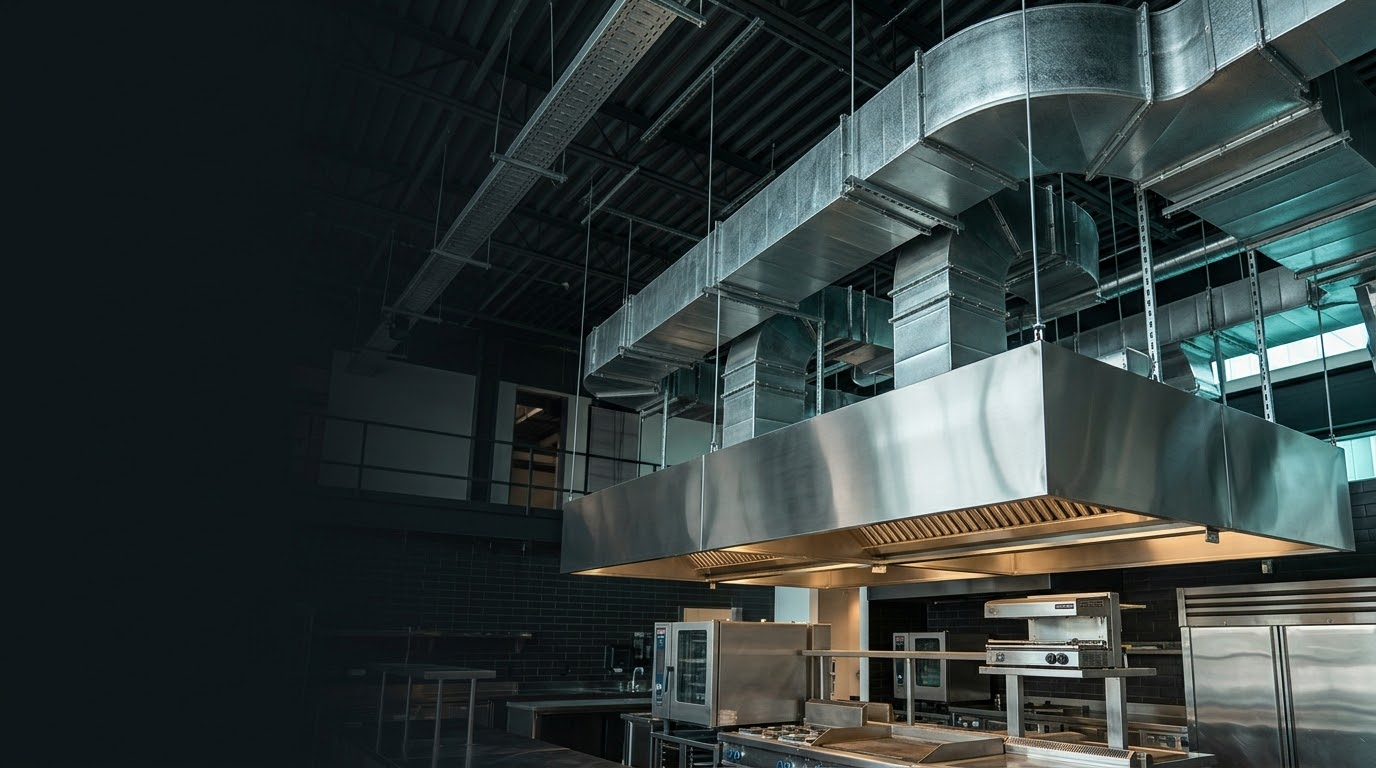
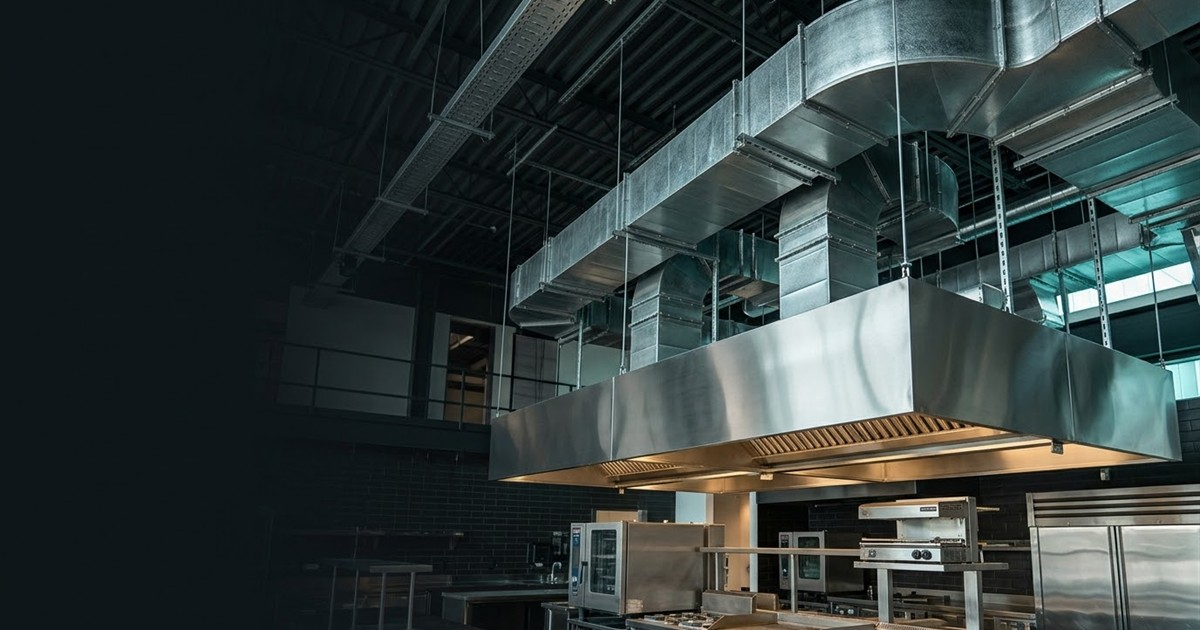
fix(seo): optimasi og:image dan lengkapi meta tag preview whatsapp / social share

diff --git a/index.html b/index.html
@@ -22,11 +22,18 @@
   <meta property="og:locale" content="id_ID">
   <meta property="og:site_name" content="Ducting Kitchen">
   <meta property="og:title" content="Jasa Ducting Kitchen &amp; Kitchen Exhaust System Komersial">
-  <meta property="og:description"
-    content="Spesialis pembuatan dan instalasi ducting exhaust dapur, kitchen hood stainless steel, blower, dan sistem sirkulasi udara dapur komersial.">
-  <meta property="og:url" content="https://ductingkitchen.id/">
-  <meta property="og:image" content="https://ductingkitchen.id/assets/img/og/ducting-kitchen-og.jpg">
+  <meta property="og:description" content="Spesialis pembuatan dan instalasi ducting exhaust dapur, kitchen hood stainless steel, blower, dan sistem sirkulasi udara dapur komersial.">
+  <meta property="og:url" content="https://ductingkitchenid-2iba.vercel.app/">
+  <meta property="og:image" content="https://ductingkitchenid-2iba.vercel.app/assets/img/og/ducting-kitchen-og.jpg">
+  <meta property="og:image:secure_url" content="https://ductingkitchenid-2iba.vercel.app/assets/img/og/ducting-kitchen-og.jpg">
+  <meta property="og:image:type" content="image/jpeg">
+  <meta property="og:image:width" content="1200">
+  <meta property="og:image:height" content="630">
+  <meta property="og:image:alt" content="Jasa Ducting Kitchen &amp; Kitchen Exhaust System Komersial">
   <meta name="twitter:card" content="summary_large_image">
+  <meta name="twitter:title" content="Jasa Ducting Kitchen &amp; Kitchen Exhaust System Komersial">
+  <meta name="twitter:description" content="Spesialis pembuatan dan instalasi ducting exhaust dapur, kitchen hood stainless steel, blower, dan sistem sirkulasi udara dapur komersial.">
+  <meta name="twitter:image" content="https://ductingkitchenid-2iba.vercel.app/assets/img/og/ducting-kitchen-og.jpg">
 
   <link rel="icon" type="image/png" href="/assets/img/web/favicon.png">
   <link rel="apple-touch-icon" href="/assets/img/web/favicon.png">
@@ -50,7 +57,7 @@
         "name": "Ducting Kitchen",
         "url": "https://ductingkitchen.id/",
         "logo": "https://ductingkitchen.id/assets/img/web/logo.png",
-        "image": "https://ductingkitchen.id/assets/img/og/ducting-kitchen-og.jpg",
+        "image": "https://ductingkitchenid-2iba.vercel.app/assets/img/og/ducting-kitchen-og.jpg",
         "description": "Spesialis jasa fabrikasi dan instalasi ducting kitchen, kitchen hood stainless steel, exhaust fan blower, serta cleaning ducting dapur komersial.",
         "telephone": "+6285210620252",
         "priceRange": "$",

diff --git a/blog/perbedaan-ducting-kitchen-hood-exhaust-fan/index.html b/blog/perbedaan-ducting-kitchen-hood-exhaust-fan/index.html
@@ -22,9 +22,17 @@
   <meta property="og:site_name" content="Ducting Kitchen">
   <meta property="og:title" content="Perbedaan Ducting Kitchen, Kitchen Hood, dan Exhaust Fan">
   <meta property="og:description" content="Penjelasan mendalam tentang perbedaan dan fungsi ducting kitchen, kitchen hood, dan exhaust fan dalam sistem ventilasi dapur komersial.">
-  <meta property="og:url" content="https://ductingkitchen.id/blog/perbedaan-ducting-kitchen-hood-exhaust-fan/">
-  <meta property="og:image" content="https://ductingkitchen.id/assets/img/og/ducting-kitchen-og.jpg">
+  <meta property="og:url" content="https://ductingkitchenid-2iba.vercel.app/blog/perbedaan-ducting-kitchen-hood-exhaust-fan/">
+  <meta property="og:image" content="https://ductingkitchenid-2iba.vercel.app/assets/img/og/ducting-kitchen-og.jpg">
+  <meta property="og:image:secure_url" content="https://ductingkitchenid-2iba.vercel.app/assets/img/og/ducting-kitchen-og.jpg">
+  <meta property="og:image:type" content="image/jpeg">
+  <meta property="og:image:width" content="1200">
+  <meta property="og:image:height" content="630">
+  <meta property="og:image:alt" content="Perbedaan Ducting Kitchen, Kitchen Hood, dan Exhaust Fan">
   <meta name="twitter:card" content="summary_large_image">
+  <meta name="twitter:title" content="Perbedaan Ducting Kitchen, Kitchen Hood, dan Exhaust Fan">
+  <meta name="twitter:description" content="Penjelasan mendalam tentang perbedaan dan fungsi ducting kitchen, kitchen hood, dan exhaust fan dalam sistem ventilasi dapur komersial.">
+  <meta name="twitter:image" content="https://ductingkitchenid-2iba.vercel.app/assets/img/og/ducting-kitchen-og.jpg">
 
   
   <link rel="icon" type="image/png" href="/assets/img/web/favicon.png">
@@ -41,7 +49,7 @@
         "@type": "BlogPosting",
         "headline": "Perbedaan Ducting Kitchen, Kitchen Hood, dan Exhaust Fan",
         "description": "Penjelasan mendalam tentang perbedaan dan fungsi ducting kitchen, kitchen hood, dan exhaust fan dalam sistem ventilasi dapur komersial.",
-        "image": "https://ductingkitchen.id/assets/img/og/ducting-kitchen-og.jpg",
+        "image": "https://ductingkitchenid-2iba.vercel.app/assets/img/og/ducting-kitchen-og.jpg",
         "datePublished": "2026-10-26T08:00:00+07:00",
         "dateModified": "2026-10-26T09:30:00+07:00",
         "author": {

diff --git a/tentang/index.html b/tentang/index.html
@@ -22,9 +22,17 @@
   <meta property="og:site_name" content="Ducting Kitchen">
   <meta property="og:title" content="Tentang Ducting Kitchen | Solusi Dapur Komersial">
   <meta property="og:description" content="Ducting Kitchen adalah spesialis jasa fabrikasi dan instalasi ducting kitchen, kitchen hood stainless steel, exhaust fan blower, serta sistem ventilasi dapur komersial di Jabodetabek, Jawa Barat, Jawa Timur, dan seluruh Indonesia.">
-  <meta property="og:url" content="https://ductingkitchen.id/tentang/">
-  <meta property="og:image" content="https://ductingkitchen.id/assets/img/og/ducting-kitchen-og.jpg">
+  <meta property="og:url" content="https://ductingkitchenid-2iba.vercel.app/tentang/">
+  <meta property="og:image" content="https://ductingkitchenid-2iba.vercel.app/assets/img/og/ducting-kitchen-og.jpg">
+  <meta property="og:image:secure_url" content="https://ductingkitchenid-2iba.vercel.app/assets/img/og/ducting-kitchen-og.jpg">
+  <meta property="og:image:type" content="image/jpeg">
+  <meta property="og:image:width" content="1200">
+  <meta property="og:image:height" content="630">
+  <meta property="og:image:alt" content="Tentang Ducting Kitchen | Solusi Dapur Komersial">
   <meta name="twitter:card" content="summary_large_image">
+  <meta name="twitter:title" content="Tentang Ducting Kitchen | Solusi Dapur Komersial">
+  <meta name="twitter:description" content="Ducting Kitchen adalah spesialis jasa fabrikasi dan instalasi ducting kitchen, kitchen hood stainless steel, exhaust fan blower, serta sistem ventilasi dapur komersial di Jabodetabek, Jawa Barat, Jawa Timur, dan seluruh Indonesia.">
+  <meta name="twitter:image" content="https://ductingkitchenid-2iba.vercel.app/assets/img/og/ducting-kitchen-og.jpg">
 
   
   <link rel="icon" type="image/png" href="/assets/img/web/favicon.png">
@@ -51,7 +59,7 @@
         "name": "Ducting Kitchen",
         "url": "https://ductingkitchen.id/",
         "logo": "https://ductingkitchen.id/assets/img/web/logo.png",
-        "image": "https://ductingkitchen.id/assets/img/og/ducting-kitchen-og.jpg",
+        "image": "https://ductingkitchenid-2iba.vercel.app/assets/img/og/ducting-kitchen-og.jpg",
         "telephone": "+6285210620252",
         "address": {
           "@type": "PostalAddress",

diff --git a/blog/perhitungan-kapasitas-exhaust-dapur/index.html b/blog/perhitungan-kapasitas-exhaust-dapur/index.html
@@ -22,9 +22,17 @@
   <meta property="og:site_name" content="Ducting Kitchen">
   <meta property="og:title" content="Cara Menghitung Kebutuhan Exhaust Dapur Komersial">
   <meta property="og:description" content="Rumus dan metode perhitungan teknis debit hisap CFM dan kebutuhan sirkulasi udara exhaust dapur restoran.">
-  <meta property="og:url" content="https://ductingkitchen.id/blog/perhitungan-kapasitas-exhaust-dapur/">
-  <meta property="og:image" content="https://ductingkitchen.id/assets/img/og/ducting-kitchen-og.jpg">
+  <meta property="og:url" content="https://ductingkitchenid-2iba.vercel.app/blog/perhitungan-kapasitas-exhaust-dapur/">
+  <meta property="og:image" content="https://ductingkitchenid-2iba.vercel.app/assets/img/og/ducting-kitchen-og.jpg">
+  <meta property="og:image:secure_url" content="https://ductingkitchenid-2iba.vercel.app/assets/img/og/ducting-kitchen-og.jpg">
+  <meta property="og:image:type" content="image/jpeg">
+  <meta property="og:image:width" content="1200">
+  <meta property="og:image:height" content="630">
+  <meta property="og:image:alt" content="Cara Menghitung Kebutuhan Exhaust Dapur Komersial">
   <meta name="twitter:card" content="summary_large_image">
+  <meta name="twitter:title" content="Cara Menghitung Kebutuhan Exhaust Dapur Komersial">
+  <meta name="twitter:description" content="Rumus dan metode perhitungan teknis debit hisap CFM dan kebutuhan sirkulasi udara exhaust dapur restoran.">
+  <meta name="twitter:image" content="https://ductingkitchenid-2iba.vercel.app/assets/img/og/ducting-kitchen-og.jpg">
 
   
   <link rel="icon" type="image/png" href="/assets/img/web/favicon.png">
@@ -41,7 +49,7 @@
         "@type": "BlogPosting",
         "headline": "Cara Menghitung Kebutuhan Exhaust Dapur Komersial",
         "description": "Panduan teknis cara menghitung kapasitas exhaust dapur komersial: rumus CFM/CMH, klasifikasi beban kompor, dan perhitungan air change per hour (ACH).",
-        "image": "https://ductingkitchen.id/assets/img/og/ducting-kitchen-og.jpg",
+        "image": "https://ductingkitchenid-2iba.vercel.app/assets/img/og/ducting-kitchen-og.jpg",
         "datePublished": "2026-09-29T08:00:00+07:00",
         "dateModified": "2026-10-26T09:30:00+07:00",
         "author": {

diff --git a/blog/cara-memilih-exhaust-fan-dapur/index.html b/blog/cara-memilih-exhaust-fan-dapur/index.html
@@ -22,9 +22,17 @@
   <meta property="og:site_name" content="Ducting Kitchen">
   <meta property="og:title" content="Cara Memilih Exhaust Fan untuk Dapur Restoran">
   <meta property="og:description" content="Panduan teknis memilih exhaust blower dapur komersial, perbandingan tipe motor, tekanan statis, dan debit hisap.">
-  <meta property="og:url" content="https://ductingkitchen.id/blog/cara-memilih-exhaust-fan-dapur/">
-  <meta property="og:image" content="https://ductingkitchen.id/assets/img/og/ducting-kitchen-og.jpg">
+  <meta property="og:url" content="https://ductingkitchenid-2iba.vercel.app/blog/cara-memilih-exhaust-fan-dapur/">
+  <meta property="og:image" content="https://ductingkitchenid-2iba.vercel.app/assets/img/og/ducting-kitchen-og.jpg">
+  <meta property="og:image:secure_url" content="https://ductingkitchenid-2iba.vercel.app/assets/img/og/ducting-kitchen-og.jpg">
+  <meta property="og:image:type" content="image/jpeg">
+  <meta property="og:image:width" content="1200">
+  <meta property="og:image:height" content="630">
+  <meta property="og:image:alt" content="Cara Memilih Exhaust Fan untuk Dapur Restoran">
   <meta name="twitter:card" content="summary_large_image">
+  <meta name="twitter:title" content="Cara Memilih Exhaust Fan untuk Dapur Restoran">
+  <meta name="twitter:description" content="Panduan teknis memilih exhaust blower dapur komersial, perbandingan tipe motor, tekanan statis, dan debit hisap.">
+  <meta name="twitter:image" content="https://ductingkitchenid-2iba.vercel.app/assets/img/og/ducting-kitchen-og.jpg">
 
   
   <link rel="icon" type="image/png" href="/assets/img/web/favicon.png">
@@ -41,7 +49,7 @@
         "@type": "BlogPosting",
         "headline": "Cara Memilih Exhaust Fan untuk Dapur Restoran",
         "description": "Panduan memilih motor exhaust fan yang tepat untuk dapur restoran: perbandingan kipas aksial vs blower sentrifugal, tekanan statis, dan kapasitas debit udara.",
-        "image": "https://ductingkitchen.id/assets/img/og/ducting-kitchen-og.jpg",
+        "image": "https://ductingkitchenid-2iba.vercel.app/assets/img/og/ducting-kitchen-og.jpg",
         "datePublished": "2026-10-05T08:00:00+07:00",
         "dateModified": "2026-10-26T09:30:00+07:00",
         "author": {

diff --git a/blog/apa-itu-kitchen-hood/index.html b/blog/apa-itu-kitchen-hood/index.html
@@ -22,9 +22,17 @@
   <meta property="og:site_name" content="Ducting Kitchen">
   <meta property="og:title" content="Apa Itu Kitchen Hood dan Bagaimana Cara Kerjanya?">
   <meta property="og:description" content="Penjelasan mendalam tentang kitchen hood komersial, cara kerja filtrasi minyak, dan pentingnya untuk dapur restoran.">
-  <meta property="og:url" content="https://ductingkitchen.id/blog/apa-itu-kitchen-hood/">
-  <meta property="og:image" content="https://ductingkitchen.id/assets/img/og/ducting-kitchen-og.jpg">
+  <meta property="og:url" content="https://ductingkitchenid-2iba.vercel.app/blog/apa-itu-kitchen-hood/">
+  <meta property="og:image" content="https://ductingkitchenid-2iba.vercel.app/assets/img/og/ducting-kitchen-og.jpg">
+  <meta property="og:image:secure_url" content="https://ductingkitchenid-2iba.vercel.app/assets/img/og/ducting-kitchen-og.jpg">
+  <meta property="og:image:type" content="image/jpeg">
+  <meta property="og:image:width" content="1200">
+  <meta property="og:image:height" content="630">
+  <meta property="og:image:alt" content="Apa Itu Kitchen Hood dan Bagaimana Cara Kerjanya?">
   <meta name="twitter:card" content="summary_large_image">
+  <meta name="twitter:title" content="Apa Itu Kitchen Hood dan Bagaimana Cara Kerjanya?">
+  <meta name="twitter:description" content="Penjelasan mendalam tentang kitchen hood komersial, cara kerja filtrasi minyak, dan pentingnya untuk dapur restoran.">
+  <meta name="twitter:image" content="https://ductingkitchenid-2iba.vercel.app/assets/img/og/ducting-kitchen-og.jpg">
 
   
   <link rel="icon" type="image/png" href="/assets/img/web/favicon.png">
@@ -41,7 +49,7 @@
         "@type": "BlogPosting",
         "headline": "Apa Itu Kitchen Hood dan Bagaimana Cara Kerjanya?",
         "description": "Penjelasan mendalam tentang kitchen hood: fungsi menangkap uap lemak di dapur komersial, tipe-tipe hood, cara kerja baffle filter, dan perawatannya.",
-        "image": "https://ductingkitchen.id/assets/img/og/ducting-kitchen-og.jpg",
+        "image": "https://ductingkitchenid-2iba.vercel.app/assets/img/og/ducting-kitchen-og.jpg",
         "datePublished": "2026-10-22T08:00:00+07:00",
         "dateModified": "2026-10-26T09:30:00+07:00",
         "author": {

diff --git a/blog/biaya-pemasangan-kitchen-hood/index.html b/blog/biaya-pemasangan-kitchen-hood/index.html
@@ -22,9 +22,17 @@
   <meta property="og:site_name" content="Ducting Kitchen">
   <meta property="og:title" content="Faktor yang Memengaruhi Biaya Pemasangan Kitchen Hood">
   <meta property="og:description" content="Panduan komponen biaya dan pertimbangan anggaran pembuatan kitchen hood restoran.">
-  <meta property="og:url" content="https://ductingkitchen.id/blog/biaya-pemasangan-kitchen-hood/">
-  <meta property="og:image" content="https://ductingkitchen.id/assets/img/og/ducting-kitchen-og.jpg">
+  <meta property="og:url" content="https://ductingkitchenid-2iba.vercel.app/blog/biaya-pemasangan-kitchen-hood/">
+  <meta property="og:image" content="https://ductingkitchenid-2iba.vercel.app/assets/img/og/ducting-kitchen-og.jpg">
+  <meta property="og:image:secure_url" content="https://ductingkitchenid-2iba.vercel.app/assets/img/og/ducting-kitchen-og.jpg">
+  <meta property="og:image:type" content="image/jpeg">
+  <meta property="og:image:width" content="1200">
+  <meta property="og:image:height" content="630">
+  <meta property="og:image:alt" content="Faktor yang Memengaruhi Biaya Pemasangan Kitchen Hood">
   <meta name="twitter:card" content="summary_large_image">
+  <meta name="twitter:title" content="Faktor yang Memengaruhi Biaya Pemasangan Kitchen Hood">
+  <meta name="twitter:description" content="Panduan komponen biaya dan pertimbangan anggaran pembuatan kitchen hood restoran.">
+  <meta name="twitter:image" content="https://ductingkitchenid-2iba.vercel.app/assets/img/og/ducting-kitchen-og.jpg">
 
   
   <link rel="icon" type="image/png" href="/assets/img/web/favicon.png">
@@ -41,7 +49,7 @@
         "@type": "BlogPosting",
         "headline": "Faktor yang Memengaruhi Biaya Pemasangan Kitchen Hood",
         "description": "Pelajari faktor-faktor yang memengaruhi harga kitchen hood stainless steel, mulai dari ukuran, jenis SUS 201 vs 304, model kanopi, hingga kelengkapan instalasi.",
-        "image": "https://ductingkitchen.id/assets/img/og/ducting-kitchen-og.jpg",
+        "image": "https://ductingkitchenid-2iba.vercel.app/assets/img/og/ducting-kitchen-og.jpg",
         "datePublished": "2026-10-09T08:00:00+07:00",
         "dateModified": "2026-10-26T09:30:00+07:00",
         "author": {

diff --git a/blog/perawatan-ducting-kitchen/index.html b/blog/perawatan-ducting-kitchen/index.html
@@ -22,9 +22,17 @@
   <meta property="og:site_name" content="Ducting Kitchen">
   <meta property="og:title" content="Kapan Ducting Kitchen Perlu Dibersihkan?">
   <meta property="og:description" content="Tanda-tanda bahaya saluran kotor, bahaya kebakaran lemak dapur, dan jadwal ideal pembersihan ducting restoran.">
-  <meta property="og:url" content="https://ductingkitchen.id/blog/perawatan-ducting-kitchen/">
-  <meta property="og:image" content="https://ductingkitchen.id/assets/img/og/ducting-kitchen-og.jpg">
+  <meta property="og:url" content="https://ductingkitchenid-2iba.vercel.app/blog/perawatan-ducting-kitchen/">
+  <meta property="og:image" content="https://ductingkitchenid-2iba.vercel.app/assets/img/og/ducting-kitchen-og.jpg">
+  <meta property="og:image:secure_url" content="https://ductingkitchenid-2iba.vercel.app/assets/img/og/ducting-kitchen-og.jpg">
+  <meta property="og:image:type" content="image/jpeg">
+  <meta property="og:image:width" content="1200">
+  <meta property="og:image:height" content="630">
+  <meta property="og:image:alt" content="Kapan Ducting Kitchen Perlu Dibersihkan?">
   <meta name="twitter:card" content="summary_large_image">
+  <meta name="twitter:title" content="Kapan Ducting Kitchen Perlu Dibersihkan?">
+  <meta name="twitter:description" content="Tanda-tanda bahaya saluran kotor, bahaya kebakaran lemak dapur, dan jadwal ideal pembersihan ducting restoran.">
+  <meta name="twitter:image" content="https://ductingkitchenid-2iba.vercel.app/assets/img/og/ducting-kitchen-og.jpg">
 
   
   <link rel="icon" type="image/png" href="/assets/img/web/favicon.png">
@@ -41,7 +49,7 @@
         "@type": "BlogPosting",
         "headline": "Kapan Ducting Kitchen Perlu Dibersihkan?",
         "description": "Tanda-tanda saluran exhaust berminyak, risiko bahaya kebakaran dapur, dan panduan frekuensi pembersihan rutin ducting kitchen untuk restoran dan hotel.",
-        "image": "https://ductingkitchen.id/assets/img/og/ducting-kitchen-og.jpg",
+        "image": "https://ductingkitchenid-2iba.vercel.app/assets/img/og/ducting-kitchen-og.jpg",
         "datePublished": "2026-10-18T08:00:00+07:00",
         "dateModified": "2026-10-26T09:30:00+07:00",
         "author": {

diff --git a/blog/harga-jasa-ducting-kitchen/index.html b/blog/harga-jasa-ducting-kitchen/index.html
@@ -22,9 +22,17 @@
   <meta property="og:site_name" content="Ducting Kitchen">
   <meta property="og:title" content="Berapa Harga Jasa Ducting Kitchen untuk Restoran?">
   <meta property="og:description" content="Panduan komponen biaya pembuatan dan pemasangan ducting kitchen exhaust dapur komersial.">
-  <meta property="og:url" content="https://ductingkitchen.id/blog/harga-jasa-ducting-kitchen/">
-  <meta property="og:image" content="https://ductingkitchen.id/assets/img/og/ducting-kitchen-og.jpg">
+  <meta property="og:url" content="https://ductingkitchenid-2iba.vercel.app/blog/harga-jasa-ducting-kitchen/">
+  <meta property="og:image" content="https://ductingkitchenid-2iba.vercel.app/assets/img/og/ducting-kitchen-og.jpg">
+  <meta property="og:image:secure_url" content="https://ductingkitchenid-2iba.vercel.app/assets/img/og/ducting-kitchen-og.jpg">
+  <meta property="og:image:type" content="image/jpeg">
+  <meta property="og:image:width" content="1200">
+  <meta property="og:image:height" content="630">
+  <meta property="og:image:alt" content="Berapa Harga Jasa Ducting Kitchen untuk Restoran?">
   <meta name="twitter:card" content="summary_large_image">
+  <meta name="twitter:title" content="Berapa Harga Jasa Ducting Kitchen untuk Restoran?">
+  <meta name="twitter:description" content="Panduan komponen biaya pembuatan dan pemasangan ducting kitchen exhaust dapur komersial.">
+  <meta name="twitter:image" content="https://ductingkitchenid-2iba.vercel.app/assets/img/og/ducting-kitchen-og.jpg">
 
   
   <link rel="icon" type="image/png" href="/assets/img/web/favicon.png">
@@ -41,7 +49,7 @@
         "@type": "BlogPosting",
         "headline": "Berapa Harga Jasa Ducting Kitchen untuk Restoran?",
         "description": "Faktor-faktor yang memengaruhi biaya pemasangan ducting kitchen, komponen estimasi harga, dan cara menghitung anggaran sistem exhaust restoran.",
-        "image": "https://ductingkitchen.id/assets/img/og/ducting-kitchen-og.jpg",
+        "image": "https://ductingkitchenid-2iba.vercel.app/assets/img/og/ducting-kitchen-og.jpg",
         "datePublished": "2026-10-14T08:00:00+07:00",
         "dateModified": "2026-10-26T09:30:00+07:00",
         "author": {

diff --git a/kebijakan-privasi/index.html b/kebijakan-privasi/index.html
@@ -20,11 +20,19 @@
   <meta property="og:type" content="website">
   <meta property="og:locale" content="id_ID">
   <meta property="og:site_name" content="Ducting Kitchen">
-  <meta property="og:description" content="Penjelasan data yang dikumpulkan melalui formulir, WhatsApp, dan analitik di ductingkitchen.id, tujuan penggunaannya, dan cara menghubungi kami.">
   <meta property="og:title" content="Kebijakan Privasi | Ducting Kitchen">
-  <meta property="og:url" content="https://ductingkitchen.id/kebijakan-privasi/">
-  <meta property="og:image" content="https://ductingkitchen.id/assets/img/og/ducting-kitchen-og.jpg">
+  <meta property="og:description" content="Penjelasan data yang dikumpulkan melalui formulir, WhatsApp, dan analitik di ductingkitchen.id, tujuan penggunaannya, dan cara menghubungi kami.">
+  <meta property="og:url" content="https://ductingkitchenid-2iba.vercel.app/kebijakan-privasi/">
+  <meta property="og:image" content="https://ductingkitchenid-2iba.vercel.app/assets/img/og/ducting-kitchen-og.jpg">
+  <meta property="og:image:secure_url" content="https://ductingkitchenid-2iba.vercel.app/assets/img/og/ducting-kitchen-og.jpg">
+  <meta property="og:image:type" content="image/jpeg">
+  <meta property="og:image:width" content="1200">
+  <meta property="og:image:height" content="630">
+  <meta property="og:image:alt" content="Kebijakan Privasi | Ducting Kitchen">
   <meta name="twitter:card" content="summary_large_image">
+  <meta name="twitter:title" content="Kebijakan Privasi | Ducting Kitchen">
+  <meta name="twitter:description" content="Penjelasan data yang dikumpulkan melalui formulir, WhatsApp, dan analitik di ductingkitchen.id, tujuan penggunaannya, dan cara menghubungi kami.">
+  <meta name="twitter:image" content="https://ductingkitchenid-2iba.vercel.app/assets/img/og/ducting-kitchen-og.jpg">
 
   
   <link rel="icon" type="image/png" href="/assets/img/web/favicon.png">

diff --git a/blog/standar-ventilasi-dapur-komersial/index.html b/blog/standar-ventilasi-dapur-komersial/index.html
@@ -22,9 +22,17 @@
   <meta property="og:site_name" content="Ducting Kitchen">
   <meta property="og:title" content="Standar Keselamatan dan Higienitas Ventilasi Dapur Komersial">
   <meta property="og:description" content="Panduan regulasi keselamatan kebakaran NFPA 96, standar sanitasi higienis dinas kesehatan, dan kelayakan sistem ventilasi untuk fit-out mall.">
-  <meta property="og:url" content="https://ductingkitchen.id/blog/standar-ventilasi-dapur-komersial/">
-  <meta property="og:image" content="https://ductingkitchen.id/assets/img/services/desain-exhaust.webp">
+  <meta property="og:url" content="https://ductingkitchenid-2iba.vercel.app/blog/standar-ventilasi-dapur-komersial/">
+  <meta property="og:image" content="https://ductingkitchenid-2iba.vercel.app/assets/img/og/ducting-kitchen-og.jpg">
+  <meta property="og:image:secure_url" content="https://ductingkitchenid-2iba.vercel.app/assets/img/og/ducting-kitchen-og.jpg">
+  <meta property="og:image:type" content="image/jpeg">
+  <meta property="og:image:width" content="1200">
+  <meta property="og:image:height" content="630">
+  <meta property="og:image:alt" content="Standar Keselamatan dan Higienitas Ventilasi Dapur Komersial">
   <meta name="twitter:card" content="summary_large_image">
+  <meta name="twitter:title" content="Standar Keselamatan dan Higienitas Ventilasi Dapur Komersial">
+  <meta name="twitter:description" content="Panduan regulasi keselamatan kebakaran NFPA 96, standar sanitasi higienis dinas kesehatan, dan kelayakan sistem ventilasi untuk fit-out mall.">
+  <meta name="twitter:image" content="https://ductingkitchenid-2iba.vercel.app/assets/img/og/ducting-kitchen-og.jpg">
 
   <link rel="icon" type="image/png" href="/assets/img/web/favicon.png">
   <link rel="apple-touch-icon" href="/assets/img/web/favicon.png">

diff --git a/layanan/cleaning-ducting-kitchen/index.html b/layanan/cleaning-ducting-kitchen/index.html
@@ -22,9 +22,17 @@
   <meta property="og:site_name" content="Ducting Kitchen">
   <meta property="og:title" content="Jasa Cleaning Ducting Kitchen dan Kitchen Hood">
   <meta property="og:description" content="Layanan pembersihan ducting kitchen, kitchen hood, dan komponen exhaust untuk membantu mengurangi penumpukan minyak serta menjaga sistem tetap terawat.">
-  <meta property="og:url" content="https://ductingkitchen.id/layanan/cleaning-ducting-kitchen/">
-  <meta property="og:image" content="https://ductingkitchen.id/assets/img/og/ducting-kitchen-og.jpg">
+  <meta property="og:url" content="https://ductingkitchenid-2iba.vercel.app/layanan/cleaning-ducting-kitchen/">
+  <meta property="og:image" content="https://ductingkitchenid-2iba.vercel.app/assets/img/og/ducting-kitchen-og.jpg">
+  <meta property="og:image:secure_url" content="https://ductingkitchenid-2iba.vercel.app/assets/img/og/ducting-kitchen-og.jpg">
+  <meta property="og:image:type" content="image/jpeg">
+  <meta property="og:image:width" content="1200">
+  <meta property="og:image:height" content="630">
+  <meta property="og:image:alt" content="Jasa Cleaning Ducting Kitchen dan Kitchen Hood">
   <meta name="twitter:card" content="summary_large_image">
+  <meta name="twitter:title" content="Jasa Cleaning Ducting Kitchen dan Kitchen Hood">
+  <meta name="twitter:description" content="Layanan pembersihan ducting kitchen, kitchen hood, dan komponen exhaust untuk membantu mengurangi penumpukan minyak serta menjaga sistem tetap terawat.">
+  <meta name="twitter:image" content="https://ductingkitchenid-2iba.vercel.app/assets/img/og/ducting-kitchen-og.jpg">
 
   
   <link rel="icon" type="image/png" href="/assets/img/web/favicon.png">
